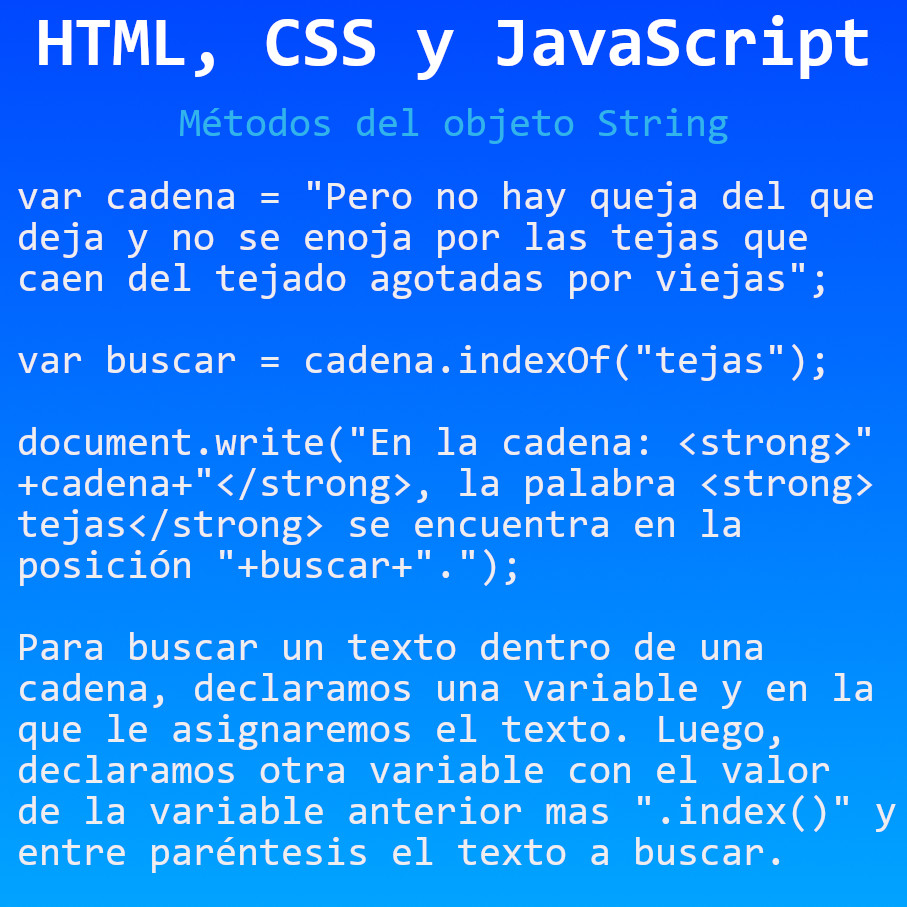
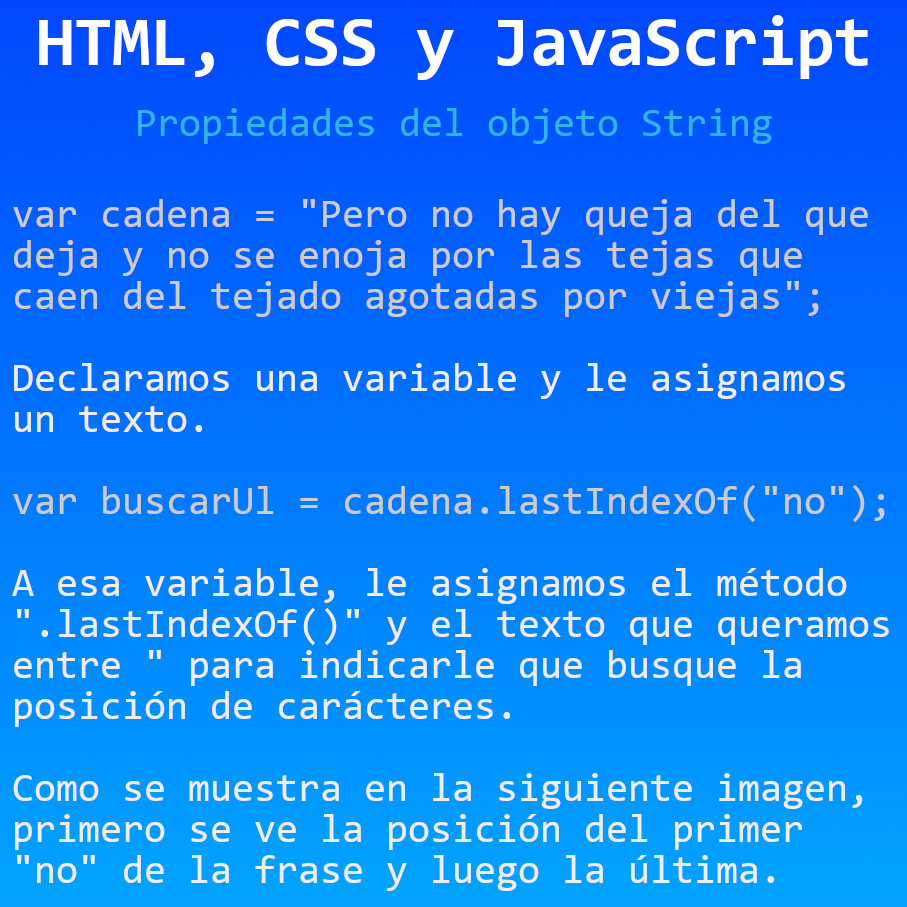
Métodos del objeto String
Métodos del objeto String en JavaScript

diff --git a/HTML, CSS y JavaScript/Métodos del objeto String/js/funciones.js b/HTML, CSS y JavaScript/Métodos del objeto String/js/funciones.js
@@ -2,8 +2,15 @@
 // declarar variables
 var cadena = "Pero no hay queja del que deja y no se enoja por las tejas que caen del tejado agotadas por viejas";
 // buscar palabra en la cadena
-var buscar = cadena.indexOf("tejas");
+var buscar = cadena.indexOf("no");
 // MOSTRAR EN PANTALLA
 document.write("En la cadena: <strong>"+cadena+"</strong>, la palabra <strong>tejas</strong> se encuentra en la posición "+buscar+".");
+// SALTO DE LÍNEA
+document.write("<hr>");
+// BÚSQUEDA DE UNA CADENA
+// buscar palabra en la cadena el último resultado
+var buscarUl = cadena.lastIndexOf("no");
+// MOSTRAR EN PANTALLA
+document.write("En la cadena: <strong>"+cadena+"</strong>, la palabra <strong>tejas</strong> se encuentra en la posición "+buscarUl+".");
 // SALTO DE LÍNEA
 document.write("<hr>");
